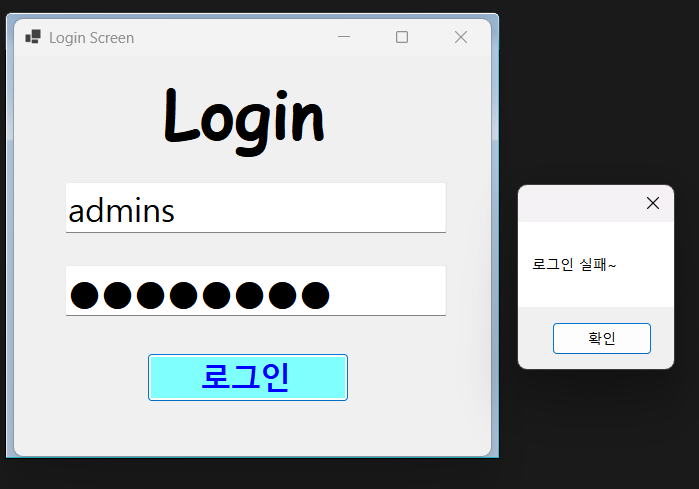
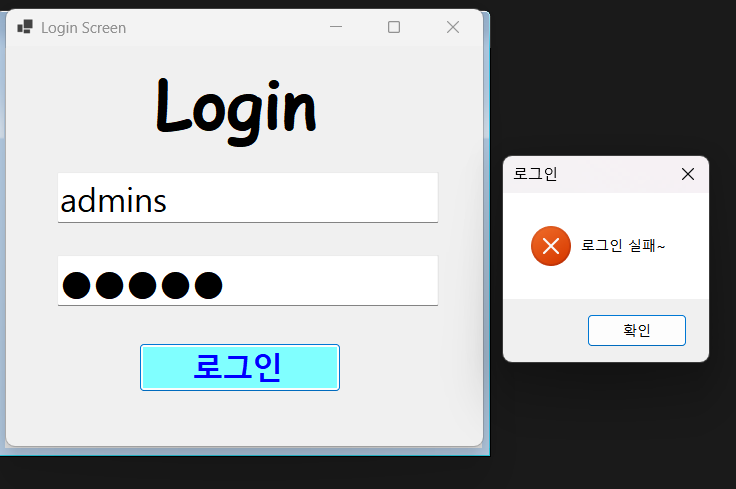
과제1 코딩과 테스트 완료 로그인 실패 메시지를 Erro로 처

diff --git a/Form1.cs b/Form1.cs
@@ -61,7 +61,7 @@ namespace LoginScreen
             }
             else
             {
-                MessageBox.Show("로그인 실패~");
+                MessageBox.Show("로그인 실패~", "로그인", MessageBoxButtons.OK, MessageBoxIcon.Error);
             }
         }
     }
